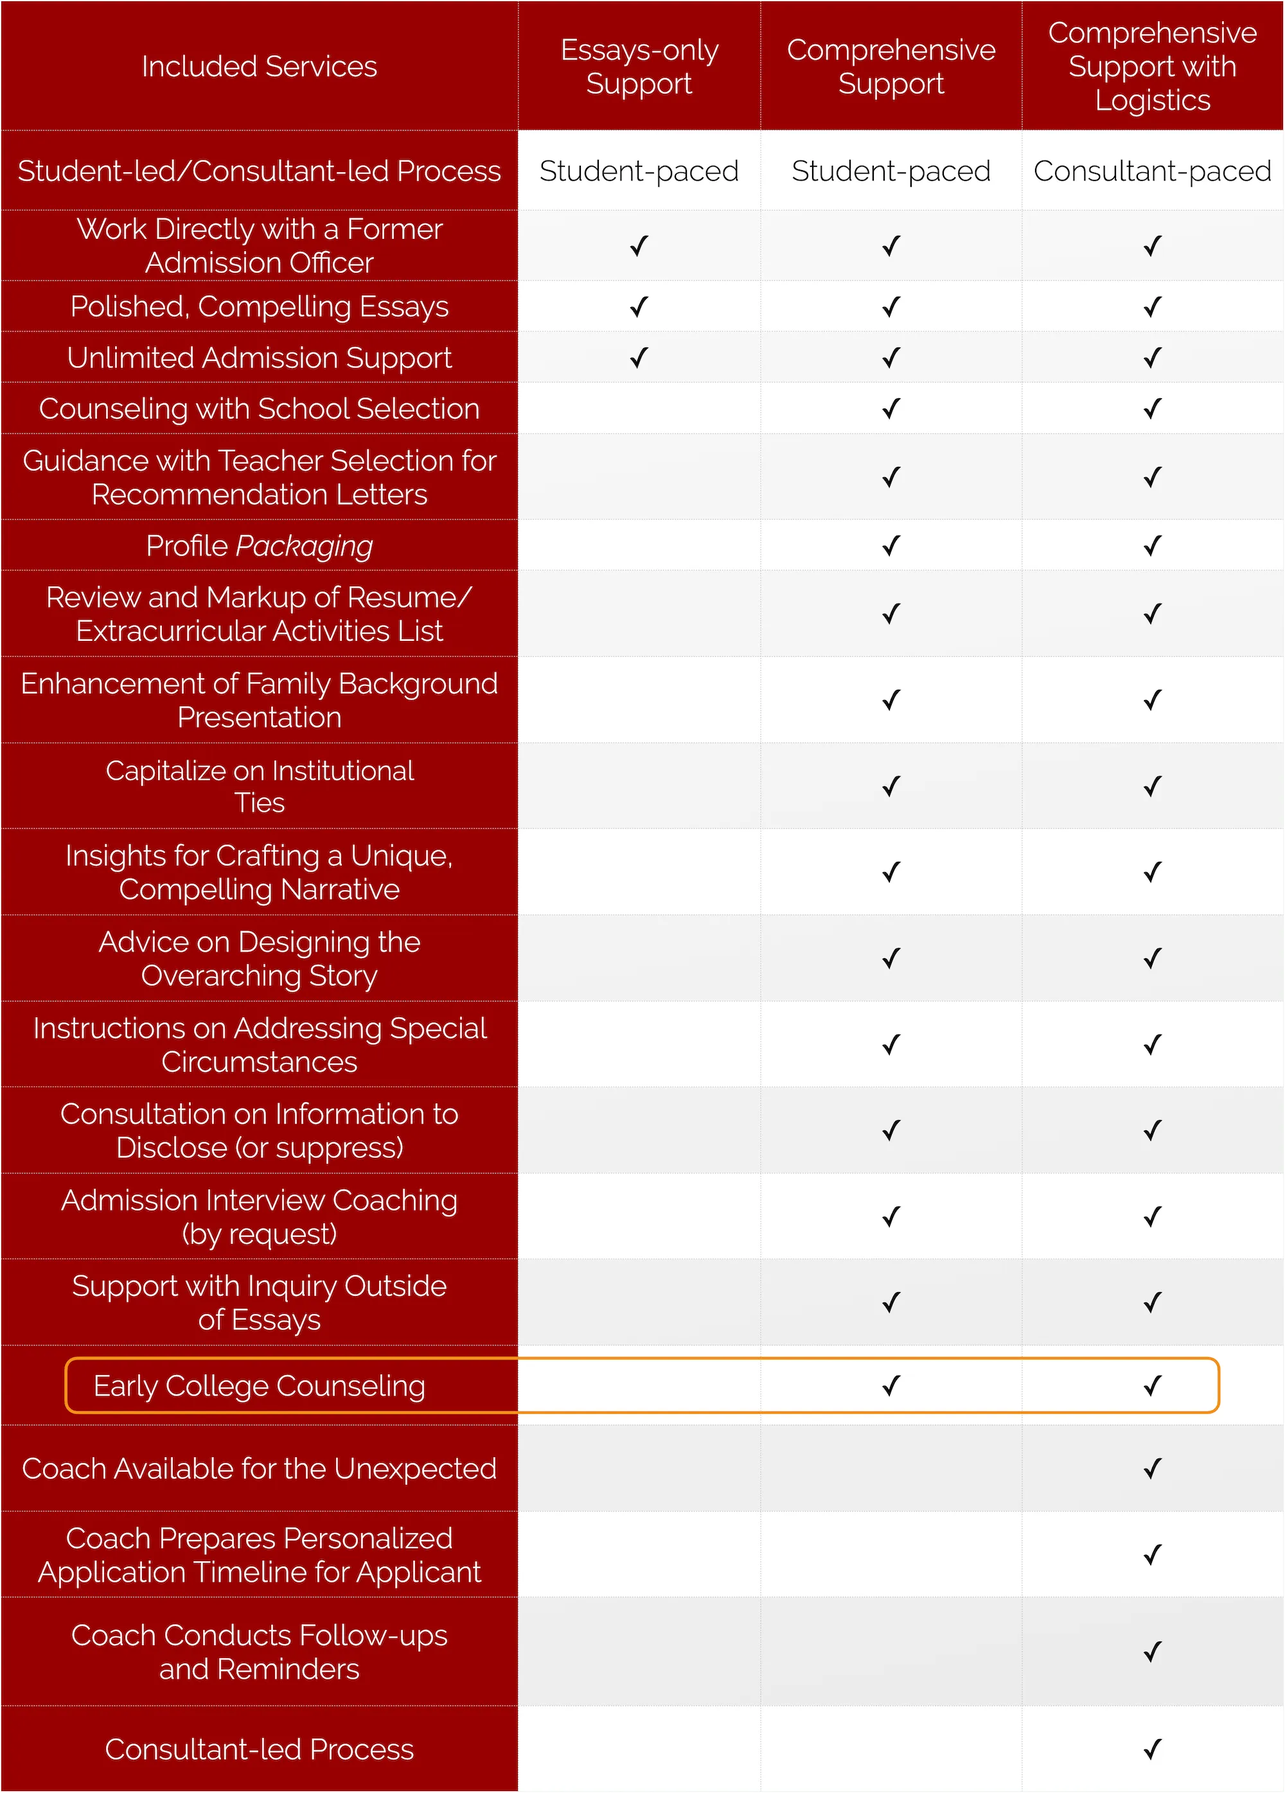
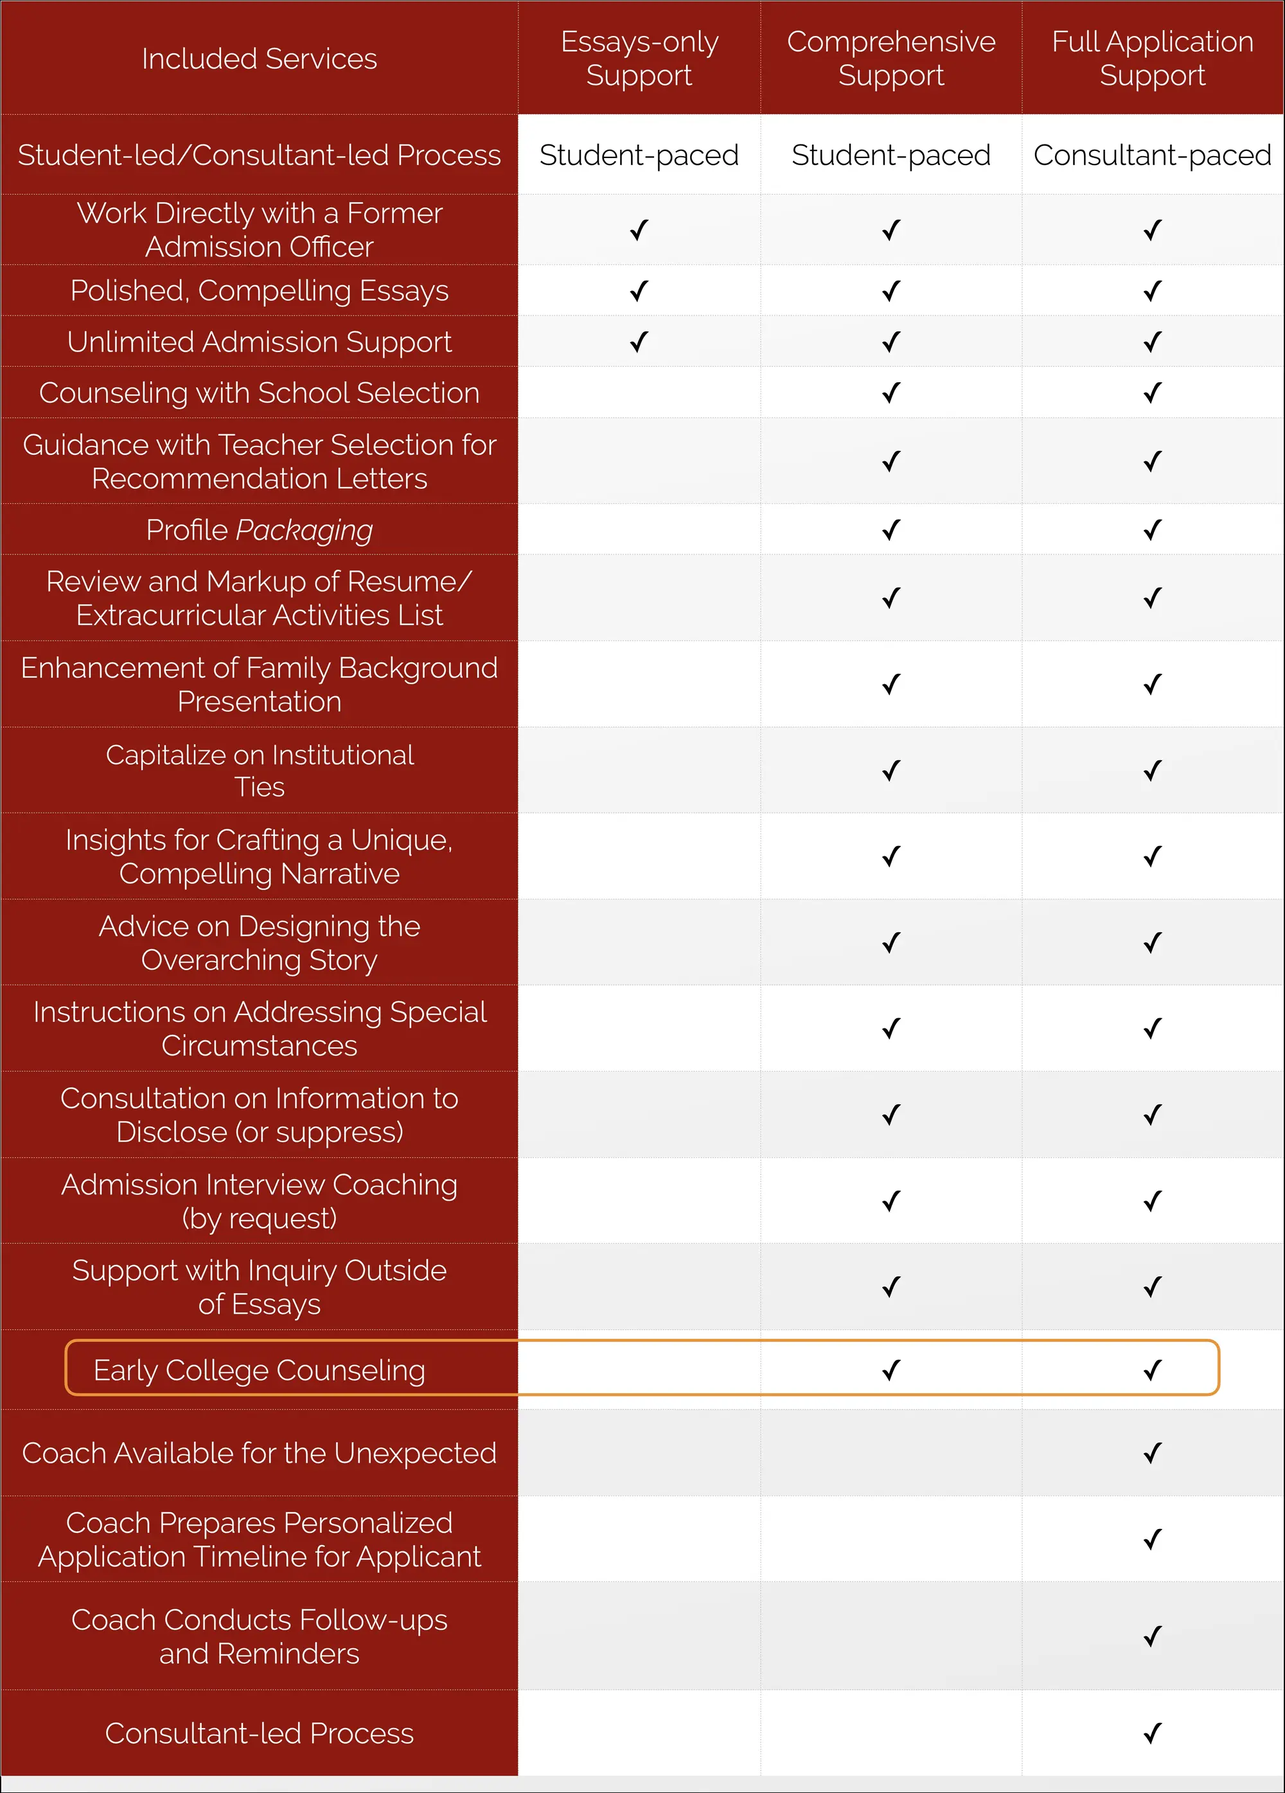
SEO Enhancements

diff --git a/next-js-site/pages/services/support-packages.js b/next-js-site/pages/services/support-packages.js
@@ -32,7 +32,7 @@ export default function SupportPackages() {
         url="/services/support-packages"
       />
 
-      <SchemaScript schema={ServiceSchema({ serviceName: 'Application Support Packages', description: "Essays-only, Comprehensive Support, and Comprehensive Support with Logistics offered by Ivy Ready.", priceRange: '$$$' })} />
+      <SchemaScript schema={ServiceSchema({ serviceName: 'Application Support Packages', description: "Essays-only, Comprehensive Support, and Full Application Support offered by Ivy Ready.", priceRange: '$$$' })} />
       <div className="max-w-6xl mx-auto px-6 pt-6">
         <Breadcrumbs items={[{ name: 'Home', url: '/' }, { name: 'Services', url: '/services' }, { name: 'Support Packages', url: '/services/support-packages' }]} />
       </div>
@@ -54,8 +54,8 @@ export default function SupportPackages() {
 
       <Section centerContent title="Ivy Ready Application Support Packages">
         <p className="pCentered">
-          We offer <b>Essays-only Support, Comprehensive Support, and Comprehensive
-          Support with Logistics</b>. All packages come with unlimited hours
+          We offer <b>Essays-only Support, Comprehensive Support, and Full
+          Application Support</b>. All packages come with unlimited hours
           of essay editing and admission support. (In addition, we offer
           <HyperLink href="services/hourly-consultation"> hourly consultation</HyperLink>
           and <HyperLink href="services/application-evaluation">Application Evaluation</HyperLink>.)
@@ -99,7 +99,7 @@ export default function SupportPackages() {
             packaging.
           </li>
           <li>
-            <strong>Comprehensive Support with Logistics</strong> hands off the
+            <strong>Full Application Support</strong> hands off the
             logistical burden to the consultant — including timelines,
             submission portals, and reminders.
           </li>
@@ -177,10 +177,10 @@ export default function SupportPackages() {
               Ensuring the applicant is able to submit not only their best work but
               also the most compelling application to each school will require
               extensive planning, preparation, and oversight—included as a part of
-              Comprehensive Support and Comprehensive Support with Logistics.
+              Comprehensive Support and Full Application Support.
             </p>
             <p className="pCentered text-start">
-              Comprehensive Support with Logistics is best for applicants looking
+              Full Application Support is best for applicants looking
               for complete support from the planning stage through application
               submission. On the other hand, Comprehensive Support is the most
               common option and covers support outside of the Essays-only package.
@@ -215,20 +215,19 @@ export default function SupportPackages() {
             <p className="pCentered text-start">
               If the applicant is able to manage the logistical aspects of this
               process, Essays-only Support and Comprehensive Support will be the
-              right option. Otherwise, we recommend Comprehensive Support with
-              Logistics in which we take the leading role in the whole process.
-              Comprehensive Support with Logistics, as a more personalized option,
-              will relieve the applicant of the responsibility and stress that
-              accompanies the logistical aspect of the application process. The
-              burden of this on the applicant cannot be underestimated, as our role
-              in alleviating this stress through Comprehensive Support with
-              Logistics cannot be overstated. By ensuring the applicant is on track
-              from the start, we make sure there is enough time to refine every
-              essay and submission. With Comprehensive Support with Logistics, we
-              take charge of the process on our end by notifying the applicant of
-              due dates for drafts, providing the support needed to ensure all
-              documents are submitted on time, and by being there when anything
-              comes up at the last minute, etc.
+              right option. Otherwise, we recommend Full Application Support in
+              which we take the leading role in the whole process. Full
+              Application Support, as a more personalized option, will relieve the
+              applicant of the responsibility and stress that accompanies the
+              logistical aspect of the application process. The burden of this on
+              the applicant cannot be underestimated, as our role in alleviating
+              this stress through Full Application Support cannot be overstated.
+              By ensuring the applicant is on track from the start, we make sure
+              there is enough time to refine every essay and submission. With Full
+              Application Support, we take charge of the process on our end by
+              notifying the applicant of due dates for drafts, providing the
+              support needed to ensure all documents are submitted on time, and by
+              being there when anything comes up at the last minute, etc.
             </p>
             <p className="pCentered text-start">
               When it comes to personal statements, while the same essay may be used

diff --git a/next-js-site/pages/packages/48247c4-21fa-4961-ae83-39c8b7fe46f0.js b/next-js-site/pages/packages/48247c4-21fa-4961-ae83-39c8b7fe46f0.js
@@ -38,7 +38,7 @@ export default function page() {
           Once you sign up for a package and a set of schools, there is no limit to the hours of application support within that package. The student will have direct access to the coach to set up meetings and send essays for editing. Parents are also more than welcome to join meetings and be copied on correspondences. (On average, it takes 100-120 hours for a full admissions season.)
         </p>
         <p>
-          Comprehensive Support and Comprehensive Support with Logistics include additional 6 hours of face-to-face college counseling per year as well as unlimited email counseling. These are generally utilized by families to supplement the high school college counselor.
+          Comprehensive Support and Full Application Support include additional 6 hours of face-to-face college counseling per year as well as unlimited email counseling. These are generally utilized by families to supplement the high school college counselor.
         </p>
 
         <p>
@@ -61,10 +61,10 @@ export default function page() {
               <strong>Comprehensive Support up to 10 Schools:</strong> $12,000 <span className="text-gray-500">(Save $1,000 from $13,000)</span> <span className="text-green-600 font-semibold">[Most common]</span>
             </li>
             <li>
-              <strong>Comprehensive Support with Logistics up to 5 Schools:</strong> $12,000 <span className="text-gray-500">(Save $1,000 from $13,000)</span>
+              <strong>Full Application Support up to 5 Schools:</strong> $12,000 <span className="text-gray-500">(Save $1,000 from $13,000)</span>
             </li>
             <li>
-              <strong>Comprehensive Support with Logistics up to 10 Schools:</strong> $14,000 <span className="text-gray-500">(Save $1,000 from $15,000)</span>
+              <strong>Full Application Support up to 10 Schools:</strong> $14,000 <span className="text-gray-500">(Save $1,000 from $15,000)</span>
             </li>
         </ul>
           

diff --git a/next-js-site/pages/packages/754126e-32a5-8574-re65-4a1e2r5f6a3e.js b/next-js-site/pages/packages/754126e-32a5-8574-re65-4a1e2r5f6a3e.js
@@ -38,7 +38,7 @@ export default function page() {
           Once you sign up for a package and a set of schools, there is no limit to the hours of application support within that package. The student will have direct access to the coach to set up meetings and send essays for editing. Parents are also more than welcome to join meetings and be copied on correspondences. (On average, it takes 100-120 hours for a full admissions season.)
         </p>
         <p>
-          Comprehensive Support and Comprehensive Support with Logistics include additional 6 hours of face-to-face college counseling per year as well as unlimited email counseling. These are generally utilized by families to supplement the high school college counselor.
+          Comprehensive Support and Full Application Support include additional 6 hours of face-to-face college counseling per year as well as unlimited email counseling. These are generally utilized by families to supplement the high school college counselor.
         </p>
 
         <p>
@@ -61,10 +61,10 @@ export default function page() {
               <strong>Comprehensive Support up to 10 Schools:</strong> $5,000 <span className="text-gray-500">(Save $1,000 from $6,000)</span> <span className="text-green-600 font-semibold">[Most common]</span>
             </li>
             <li>
-              <strong>Comprehensive Support with Logistics up to 5 Schools:</strong> $5,000 <span className="text-gray-500">(Save $1,000 from $6,000)</span>
+              <strong>Full Application Support up to 5 Schools:</strong> $5,000 <span className="text-gray-500">(Save $1,000 from $6,000)</span>
             </li>
             <li>
-              <strong>Comprehensive Support with Logistics up to 10 Schools:</strong> $6,000 <span className="text-gray-500">(Save $1,000 from $7,000)</span>
+              <strong>Full Application Support up to 10 Schools:</strong> $6,000 <span className="text-gray-500">(Save $1,000 from $7,000)</span>
             </li>
         </ul>
           

diff --git a/next-js-site/pages/packages/2f7e6a2-cd9b-4e3f-a7d1-583b2e4f6c19.js b/next-js-site/pages/packages/2f7e6a2-cd9b-4e3f-a7d1-583b2e4f6c19.js
@@ -38,7 +38,7 @@ export default function page() {
           Once you sign up for a package and a set of schools, there is no limit to the hours of application support within that package. The student will have direct access to the coach to set up meetings and send essays for editing. Parents are also more than welcome to join meetings and be copied on correspondences. (On average, it takes 100-120 hours for a full admissions season.)
         </p>
         <p>
-          Comprehensive Support and Comprehensive Support with Logistics include additional 6 hours of face-to-face college counseling per year as well as unlimited email counseling. These are generally utilized by families to supplement the high school college counselor.
+          Comprehensive Support and Full Application Support include additional 6 hours of face-to-face college counseling per year as well as unlimited email counseling. These are generally utilized by families to supplement the high school college counselor.
         </p>
 
         <p>
@@ -61,10 +61,10 @@ export default function page() {
             <strong>Comprehensive Support up to 10 Schools:</strong> $10,000 <span className="text-gray-500">(Save $1,000 from $11,000)</span> <span className="text-green-600 font-semibold">[Most common]</span>
           </li>
           <li>
-            <strong>Comprehensive Support with Logistics up to 5 Schools:</strong> $10,000 <span className="text-gray-500">(Save $1,000 from $11,000)</span>
+            <strong>Full Application Support up to 5 Schools:</strong> $10,000 <span className="text-gray-500">(Save $1,000 from $11,000)</span>
           </li>
           <li>
-            <strong>Comprehensive Support with Logistics up to 10 Schools:</strong> $12,000 <span className="text-gray-500">(Save $1,000 from $13,000)</span>
+            <strong>Full Application Support up to 10 Schools:</strong> $12,000 <span className="text-gray-500">(Save $1,000 from $13,000)</span>
           </li>
         </ul>
           

diff --git a/next-js-site/pages/packages/0ea2348c-f91c-4b0e-a2e0-41f72e7c0e3d.js b/next-js-site/pages/packages/0ea2348c-f91c-4b0e-a2e0-41f72e7c0e3d.js
@@ -39,7 +39,7 @@ export default function page() {
           Once you sign up for a package and a set of schools, there is no limit to the hours of application support within that package. The student will have direct access to the coach to set up meetings and send essays for editing. Parents are also more than welcome to join meetings and be copied on correspondences. (On average, it takes 100-120 hours for a full admissions season.)
         </p>
         <p>
-          Comprehensive Support and Comprehensive Support with Logistics include additional 6 hours of face-to-face college counseling per year as well as unlimited email counseling. These are generally utilized by families to supplement the high school college counselor.
+          Comprehensive Support and Full Application Support include additional 6 hours of face-to-face college counseling per year as well as unlimited email counseling. These are generally utilized by families to supplement the high school college counselor.
         </p>
 
         <p>
@@ -62,10 +62,10 @@ export default function page() {
             <strong>Comprehensive Support up to 10 Schools:</strong> $8,000 <span className="text-gray-500">(Save $1,000 from $9,000)</span> <span className="text-green-600 font-semibold">[Most common]</span>
           </li>
           <li>
-            <strong>Comprehensive Support with Logistics up to 5 Schools:</strong> $8,000 <span className="text-gray-500">(Save $1,000 from $9,000)</span>
+            <strong>Full Application Support up to 5 Schools:</strong> $8,000 <span className="text-gray-500">(Save $1,000 from $9,000)</span>
           </li>
           <li>
-            <strong>Comprehensive Support with Logistics up to 10 Schools:</strong> $10,000 <span className="text-gray-500">(Save $1,000 from $11,000)</span>
+            <strong>Full Application Support up to 10 Schools:</strong> $10,000 <span className="text-gray-500">(Save $1,000 from $11,000)</span>
           </li>
         </ul>
           

diff --git a/next-js-site/components/ContactForm.js b/next-js-site/components/ContactForm.js
@@ -63,6 +63,19 @@ export default function ContactForm({ type = "FULL", coachName, showProfile }) {
   const [isSubmitting, setSubmitting] = useState(false);
   const [responseMessage, setResponseMessage] = useState({ success: false, message: "" });
 
+  // Ensure any Bootstrap modal/backdrop is cleared before navigating away
+  const closeOpenModals = () => {
+    if (typeof document === "undefined") return;
+    document.querySelectorAll(".modal.show").forEach((modalEl) => {
+      modalEl.classList.remove("show");
+      modalEl.setAttribute("aria-hidden", "true");
+      modalEl.style.display = "none";
+    });
+    document.querySelectorAll(".modal-backdrop").forEach((el) => el.remove());
+    document.body.classList.remove("modal-open");
+    document.body.style.removeProperty("padding-right");
+  };
+
   const heardOptions = [
     { id: "google", label: "Google Search", value: "Google Search" },
     { id: "mail", label: "Mail", value: "Mail" },
@@ -104,6 +117,7 @@ export default function ContactForm({ type = "FULL", coachName, showProfile }) {
         console.warn('dataLayer push failed', pushErr);
       }
 
+      closeOpenModals();
       router.replace("/form-submitted#top");
     } catch (err) {
       console.error(err);
@@ -268,7 +282,7 @@ export default function ContactForm({ type = "FULL", coachName, showProfile }) {
                 <option value="">Select an option</option>
                 <option value="Essays-Only Support">Essay Support Only</option>
                 <option value="Comprehensive Support">Comprehensive Support</option>
-                <option value="Comprehensive Support with Logistics">Comprehensive + Logistics</option>
+                <option value="Full Application Support">Full Application Support</option>
                 <option value="Hourly Consultation">Hourly Consultation</option>
                 <option value="Application Evaluation">Application Evaluation</option>
                 <option value="Other">Other</option>

diff --git a/next-js-site/pages/_agreement.js b/next-js-site/pages/_agreement.js
@@ -455,7 +455,7 @@ export default function DisabledPage() {
 //                 You acknowledge that in Essays-Only Support and Comprehensive Support packages the Applicant is responsible for staying on track with the review and submission timeline.
 //               </li>
 //               <li>
-//                 You acknowledge that in Comprehensive Support with Logistics package the Coach will be responsible for creating the timeline (by working with the Applicant), and conducting check ins and reminders. In addition, the coach will take care of administrative components tied to the application process (e.g. assemble a document with requirements and deadlines for the list of colleges selected.)
+//                 You acknowledge that in Full Application Support package the Coach will be responsible for creating the timeline (by working with the Applicant), and conducting check ins and reminders. In addition, the coach will take care of administrative components tied to the application process (e.g. assemble a document with requirements and deadlines for the list of colleges selected.)
 //               </li>
 //               <li>
 //                 You acknowledge that the Applicant will submit documents for edit/review and schedule meetings in a timely manner. If the applicant falls behind schedule, the Application Coach will do their best to get the Applicant back on track. However, you acknowledge, regardless of the package selected, the Applicant is ultimately responsible for staying on track to meet official college application deadlines and Ivy Ready is not liable for missed application deadlines.

diff --git a/next-js-site/components/PackagesComparison.jsx b/next-js-site/components/PackagesComparison.jsx
@@ -90,7 +90,7 @@ export default function PackagesComparison({ dataUrl, data }) {
           {meta.title}
         </h2>
         <p className="mt-1 text-sm text-zinc-600 dark:text-zinc-400">
-          We offer Essays-only Support, Comprehensive Support, and Comprehensive Support with Logistics. All packages come with unlimited hours of essay editing and admission support. (In addition, we offer hourly consultationand Application Evaluation.)
+          We offer Essays-only Support, Comprehensive Support, and Full Application Support. All packages come with unlimited hours of essay editing and admission support. (In addition, we offer hourly consultationand Application Evaluation.)
         </p>
       </div>
 

diff --git a/next-js-site/pages/tos.js b/next-js-site/pages/tos.js
@@ -61,7 +61,7 @@ export default function TermsOfService() {
           review and submission timeline.
         </li>
         <li>
-          You acknowledge that in Comprehensive Support with Logistics package
+          You acknowledge that in Full Application Support package
           the Coach will be responsible for creating the timeline (by working
           with the Applicant), and conducting check ins and reminders. In
           addition, the coach will take care of administrative components tied

diff --git a/next-js-site/pages/agreement/main.js b/next-js-site/pages/agreement/main.js
@@ -274,7 +274,7 @@ export default function AgreementForm() {
               >
                 <option value="">Package Selection</option>
                 <option value="cs10">Comprehensive Support up to 10 Schools Schools $5,000</option>
-                <option value="cswl10">Comprehensive Support with Logistics up to 10 Schools $6,000</option>
+                <option value="cswl10">Full Application Support up to 10 Schools $6,000</option>
               </select>
             </div>
 

diff --git a/next-js-site/data/agreementInfo.js b/next-js-site/data/agreementInfo.js
@@ -1,5 +1,5 @@
 export const packages = {
   "essays-only": "Essays-Only Support",
   "comp-supp": "Comprehensive Support",
-  "comp-supp-log": "Comprehensive Support with Logistics"
+  "comp-supp-log": "Full Application Support"
 }
